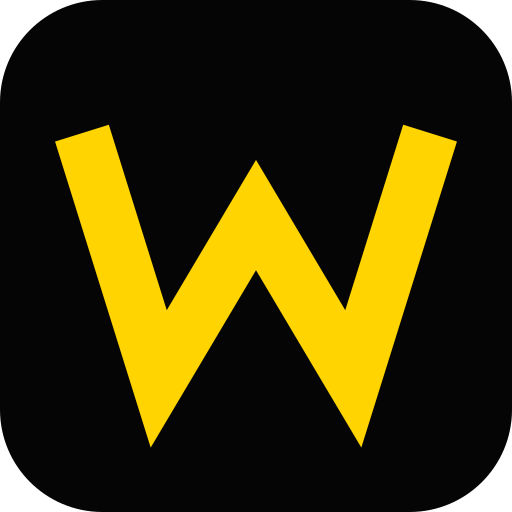
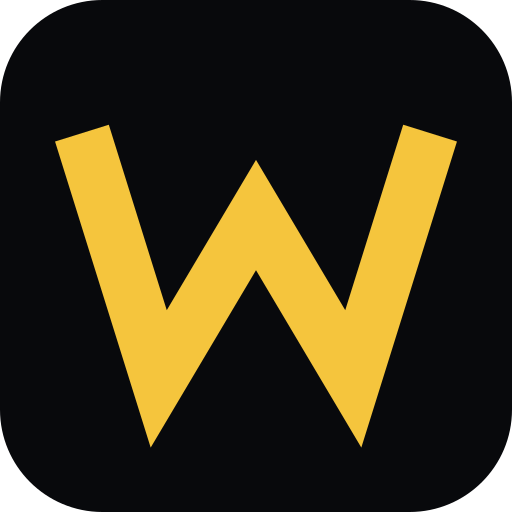
feat(brand): remove badge (só o nome WISE NEWS) + estilo do site wisecontingencia
- Logo em texto (Sora): WISE (ivory) + NEWS (dourado), sem o badge do W.
- Paleta do site: fundo #08090C, dourado #F5C53D, ivory, zinc; verde WhatsApp.
- Fontes Sora (títulos/marca), Manrope (corpo), Space Mono (rótulos).
- Ícones favicon/PWA em dourado sobre #08090C.
- Confiabilidade IA: cron auto-cura backlog (pending/failed/travados); botão
  reprocessa lote na hora + reseta travados e informa restante.

Claude-Session: https://claude.ai/code/session_01B38k1GADjZXhEJ4mDBhh6o

Changed region(s): [[0.0938, 0.25, 0.9062, 0.875]]

diff --git a/apps/api/src/routes/admin.ts b/apps/api/src/routes/admin.ts
@@ -133,19 +133,32 @@ adminRoutes.post('/posts/:id/reprocess', async (c) => {
   return c.json({ ok: true });
 });
 
-/** Reprocessa em lote todas as notícias pendentes/falhas (traduz + analisa). */
+/**
+ * Reprocessa notícias pendentes/falhas/travadas com IA. Reseta travados para
+ * 'pending', processa um lote pequeno NA HORA (retorno imediato) e deixa o
+ * restante para o cron concluir automaticamente (auto-cura).
+ */
 adminRoutes.post('/reprocess-pending', async (c) => {
-  const rows = await c.env.DB
-    .prepare("SELECT id FROM posts WHERE processing_status IN ('pending','failed') ORDER BY created_at DESC LIMIT 200")
+  // Reseta travados (processing sem conclusão) e falhas para pending.
+  await c.env.DB
+    .prepare("UPDATE posts SET processing_status = 'pending', ai_error = NULL WHERE processing_status IN ('failed','processing') AND processed_at IS NULL")
+    .run();
+
+  const total = await c.env.DB.prepare("SELECT COUNT(*) AS n FROM posts WHERE processing_status = 'pending'").first<{ n: number }>();
+
+  // Processa um lote pequeno de forma síncrona (cabe no tempo da requisição).
+  const chunk = await c.env.DB
+    .prepare("SELECT id FROM posts WHERE processing_status = 'pending' ORDER BY created_at DESC LIMIT 3")
     .all<{ id: number }>();
-  const ids = (rows.results ?? []).map((r) => r.id);
-  const wu = c.executionCtx.waitUntil.bind(c.executionCtx);
-  for (const id of ids) {
-    await c.env.DB.prepare("UPDATE posts SET processing_status = 'processing', ai_error = NULL WHERE id = ?").bind(id).run();
-    await enqueue(c.env, { type: 'process_post', postId: id }, wu);
+  let done = 0;
+  for (const r of chunk.results ?? []) {
+    await c.env.DB.prepare("UPDATE posts SET processing_status = 'processing' WHERE id = ?").bind(r.id).run();
+    try { await enqueue(c.env, { type: 'process_post', postId: r.id }); done++; } catch { /* segue */ }
   }
-  await audit(c.env.DB, String(c.get('user').id), 'reprocess_pending', 'post', 'batch', { count: ids.length });
-  return c.json({ ok: true, queued: ids.length });
+
+  const remaining = Math.max(0, (total?.n ?? 0) - done);
+  await audit(c.env.DB, String(c.get('user').id), 'reprocess_pending', 'post', 'batch', { done, remaining });
+  return c.json({ ok: true, processed: done, remaining, message: remaining > 0 ? `${done} processadas agora; ${remaining} restantes serão concluídas automaticamente pelo coletor (a cada 15 min) ou clique novamente.` : `${done} processadas.` });
 });
 
 /** Edita tradução, resumo, análise Wise, país, categoria, publicação. */

diff --git a/apps/api/src/index.ts b/apps/api/src/index.ts
@@ -47,6 +47,8 @@ export default {
     ctx.waitUntil(runCollection(env, { force: daily }).then((r) => console.log('collection', r)).catch((e) => console.error('collection error', e)));
     // Re-agrega perguntas abertas para trazer respostas novas (monitoramento ao vivo).
     ctx.waitUntil(revisitOpenQuestions(env).catch((e) => console.error('revisit questions error', e)));
+    // Auto-cura: reprocessa um lote de notícias pendentes/travadas com IA.
+    ctx.waitUntil(reprocessBacklog(env).catch((e) => console.error('reprocess backlog error', e)));
   },
 
   /** Consumidor da fila do pipeline (processamento + DLQ). */
@@ -78,6 +80,27 @@ async function revisitOpenQuestions(env: Env): Promise<void> {
     .all<{ id: number }>();
   for (const r of rows.results ?? []) {
     await enqueue(env, { type: 'aggregate_question', questionId: r.id });
+  }
+}
+
+/**
+ * Reprocessa (com IA) notícias pendentes/falhas e as que ficaram "travadas" em
+ * processing há mais de 3 min. Processa inline dentro do waitUntil do cron, que
+ * tem tempo mais generoso que o pós-resposta HTTP — assim o backlog se completa
+ * sozinho a cada execução do cron.
+ */
+async function reprocessBacklog(env: Env): Promise<void> {
+  const rows = await env.DB
+    .prepare(
+      `SELECT id FROM posts
+       WHERE processing_status IN ('pending','failed')
+          OR (processing_status = 'processing' AND processed_at IS NULL AND fetched_at < datetime('now','-3 minutes'))
+       ORDER BY created_at DESC LIMIT 8`,
+    )
+    .all<{ id: number }>();
+  for (const r of rows.results ?? []) {
+    await env.DB.prepare("UPDATE posts SET processing_status = 'processing' WHERE id = ?").bind(r.id).run();
+    await enqueue(env, { type: 'process_post', postId: r.id });
   }
 }
 

diff --git a/apps/web/src/components/ui.tsx b/apps/web/src/components/ui.tsx
@@ -1,8 +1,18 @@
-import { logoSvg } from '@wise-news/ui';
 import type { ReactNode } from 'react';
 
-export function Logo({ width = 160 }: { width?: number }) {
-  return <div aria-label="WISE NEWS" dangerouslySetInnerHTML={{ __html: logoSvg({ width, withText: true }) }} />;
+/** Marca em texto (sem badge): WISE (ivory) NEWS (dourado), tipografia Sora. */
+export function Logo({ size = 'md', tagline = true }: { size?: 'sm' | 'md' | 'lg'; tagline?: boolean; width?: number }) {
+  const cls = size === 'lg' ? 'text-3xl' : size === 'sm' ? 'text-lg' : 'text-2xl';
+  return (
+    <div aria-label="WISE NEWS" className="flex flex-col leading-none">
+      <div className={`font-display font-extrabold tracking-tight ${cls}`}>
+        <span className="text-ivory">WISE</span>&nbsp;<span className="text-gold">NEWS</span>
+      </div>
+      {tagline && (
+        <div className="mt-1 font-mono text-[9px] uppercase tracking-[0.22em] text-gray-muted">Radar da API Oficial</div>
+      )}
+    </div>
+  );
 }
 
 const IMPACT: Record<string, { label: string; cls: string }> = {
@@ -66,7 +76,7 @@ export function Section({ title, action, children }: { title: string; action?: R
   return (
     <section className="mb-6">
       <div className="mb-2 flex items-center justify-between px-1">
-        <h2 className="text-sm font-bold uppercase tracking-wide text-gray">{title}</h2>
+        <h2 className="font-mono text-[11px] uppercase tracking-[0.18em] text-gray">{title}</h2>
         {action}
       </div>
       {children}

diff --git a/apps/web/tailwind.config.js b/apps/web/tailwind.config.js
@@ -4,17 +4,24 @@ export default {
   theme: {
     extend: {
       colors: {
-        bg: '#050505',
-        panel: '#101010',
-        panel2: '#181818',
-        border: '#242424',
-        yellow: '#FFD400',
-        gray: { DEFAULT: '#9CA3AF', muted: '#6B7280' },
-        confirmed: '#22C55E',
+        // Paleta do site WISE (wisecontingencia.com.br)
+        bg: '#08090C',
+        ink2: '#0C0D13',
+        panel: '#14151C',
+        panel2: '#181922',
+        border: '#22232C',
+        yellow: '#F5C53D', // dourado da marca (mantém a chave 'yellow' usada no app)
+        gold: '#F5C53D',
+        'gold-hi': '#FFE9A8',
+        ivory: '#F6F5F2',
+        gray: { DEFAULT: '#A0A0AC', muted: '#6A6A76' },
+        confirmed: '#25D366', // verde WhatsApp (só confirmações)
         alert: '#EF4444',
       },
       fontFamily: {
-        sans: ['Inter', 'Segoe UI', 'system-ui', 'sans-serif'],
+        display: ['Sora', 'system-ui', 'sans-serif'],
+        sans: ['Manrope', 'system-ui', 'sans-serif'],
+        mono: ['"Space Mono"', 'ui-monospace', 'monospace'],
       },
       maxWidth: { app: '480px' },
     },

diff --git a/apps/web/src/api.ts b/apps/web/src/api.ts
@@ -85,7 +85,7 @@ export const api = {
     patchSource: (id: number, body: Record<string, unknown>) => req(`/api/admin/sources/${id}`, { method: 'PATCH', body: JSON.stringify(body) }),
     testSource: (slug: string) => req<{ validation: { ok: boolean; errors: string[] }; health: { ok: boolean; message: string } }>(`/api/admin/sources/${slug}/test`, { method: 'POST' }),
     collect: (slug?: string) => req<{ ok: boolean; started?: boolean; message?: string }>(`/api/admin/collect${slug ? `?slug=${slug}` : ''}`, { method: 'POST' }),
-    reprocessPending: () => req<{ ok: boolean; queued: number }>('/api/admin/reprocess-pending', { method: 'POST' }),
+    reprocessPending: () => req<{ ok: boolean; processed: number; remaining: number; message?: string }>('/api/admin/reprocess-pending', { method: 'POST' }),
     health: () => req<{ collectors: Array<Record<string, unknown>> }>('/api/admin/health'),
     review: () => req<{ posts: Array<Record<string, unknown>> }>('/api/admin/review'),
     reprocess: (id: number) => req(`/api/admin/posts/${id}/reprocess`, { method: 'POST' }),

diff --git a/apps/web/index.html b/apps/web/index.html
@@ -3,8 +3,11 @@
   <head>
     <meta charset="utf-8" />
     <meta name="viewport" content="width=device-width, initial-scale=1, viewport-fit=cover" />
-    <meta name="theme-color" content="#050505" />
+    <meta name="theme-color" content="#08090C" />
     <meta name="description" content="WISE NEWS — Radar da API Oficial. Central mundial de notícias e inteligência sobre a WhatsApp Business Platform." />
+    <link rel="preconnect" href="https://fonts.googleapis.com" />
+    <link rel="preconnect" href="https://fonts.gstatic.com" crossorigin />
+    <link href="https://fonts.googleapis.com/css2?family=Sora:wght@500;600;700;800&family=Manrope:wght@400;500;600;700&family=Space+Mono:wght@400;700&display=swap" rel="stylesheet" />
     <link rel="icon" type="image/svg+xml" href="/favicon.svg" />
     <link rel="apple-touch-icon" href="/apple-touch-icon.png" />
     <meta name="apple-mobile-web-app-capable" content="yes" />

diff --git a/apps/web/src/index.css b/apps/web/src/index.css
@@ -12,12 +12,16 @@ html, body, #root {
 
 body {
   margin: 0;
-  background: #050505;
-  color: #f5f5f5;
-  font-family: 'Inter', 'Segoe UI', system-ui, sans-serif;
+  background: #08090C;
+  color: #F6F5F2;
+  font-family: 'Manrope', system-ui, sans-serif;
+  line-height: 1.6;
   -webkit-font-smoothing: antialiased;
   overscroll-behavior-y: none;
 }
+
+/* Títulos com a tipografia display do site (Sora) */
+h1, h2, h3 { font-family: 'Sora', system-ui, sans-serif; letter-spacing: -0.01em; }
 
 /* Área de toque mínima 44px + safe-area do iPhone */
 .tap { min-height: 44px; min-width: 44px; }

diff --git a/apps/web/src/pages/Login.tsx b/apps/web/src/pages/Login.tsx
@@ -26,7 +26,7 @@ export function Login() {
 
   return (
     <div className="flex min-h-full flex-col items-center justify-center px-6 py-10">
-      <div className="mb-8"><Logo width={200} /></div>
+      <div className="mb-8"><Logo size="lg" /></div>
       <form onSubmit={submit} className="card w-full max-w-sm space-y-4 p-6">
         <h1 className="text-lg font-bold">Entrar</h1>
         <div>

diff --git a/apps/web/src/admin/AdminDashboard.tsx b/apps/web/src/admin/AdminDashboard.tsx
@@ -29,7 +29,7 @@ export function AdminDashboard() {
     setMsg('');
     try {
       const r = await api.admin.reprocessPending();
-      setMsg(`Reprocessando ${r.queued} notícias com IA… atualizando em instantes.`);
+      setMsg(r.message || `${r.processed} processadas.`);
       setTimeout(load, 10000);
     } catch (e) {
       setMsg((e as Error).message);

diff --git a/apps/web/src/components/AppHeader.tsx b/apps/web/src/components/AppHeader.tsx
@@ -7,7 +7,7 @@ export function AppHeader({ showSearch = true }: { showSearch?: boolean }) {
   return (
     <header className="safe-top sticky top-0 z-30 bg-bg/95 px-4 pb-3 pt-4 backdrop-blur">
       <div className="flex items-center justify-between">
-        <Logo width={150} />
+        <Logo size="md" />
       </div>
       {showSearch && (
         <button

diff --git a/apps/web/src/pages/Profile.tsx b/apps/web/src/pages/Profile.tsx
@@ -17,8 +17,7 @@ export function Profile() {
   return (
     <div className="px-4 pt-5">
       <div className="mb-6 flex flex-col items-center gap-2 text-center">
-        <Logo width={180} />
-        <p className="text-sm text-gray">Radar da API Oficial</p>
+        <Logo size="lg" />
       </div>
 
       {user ? (
